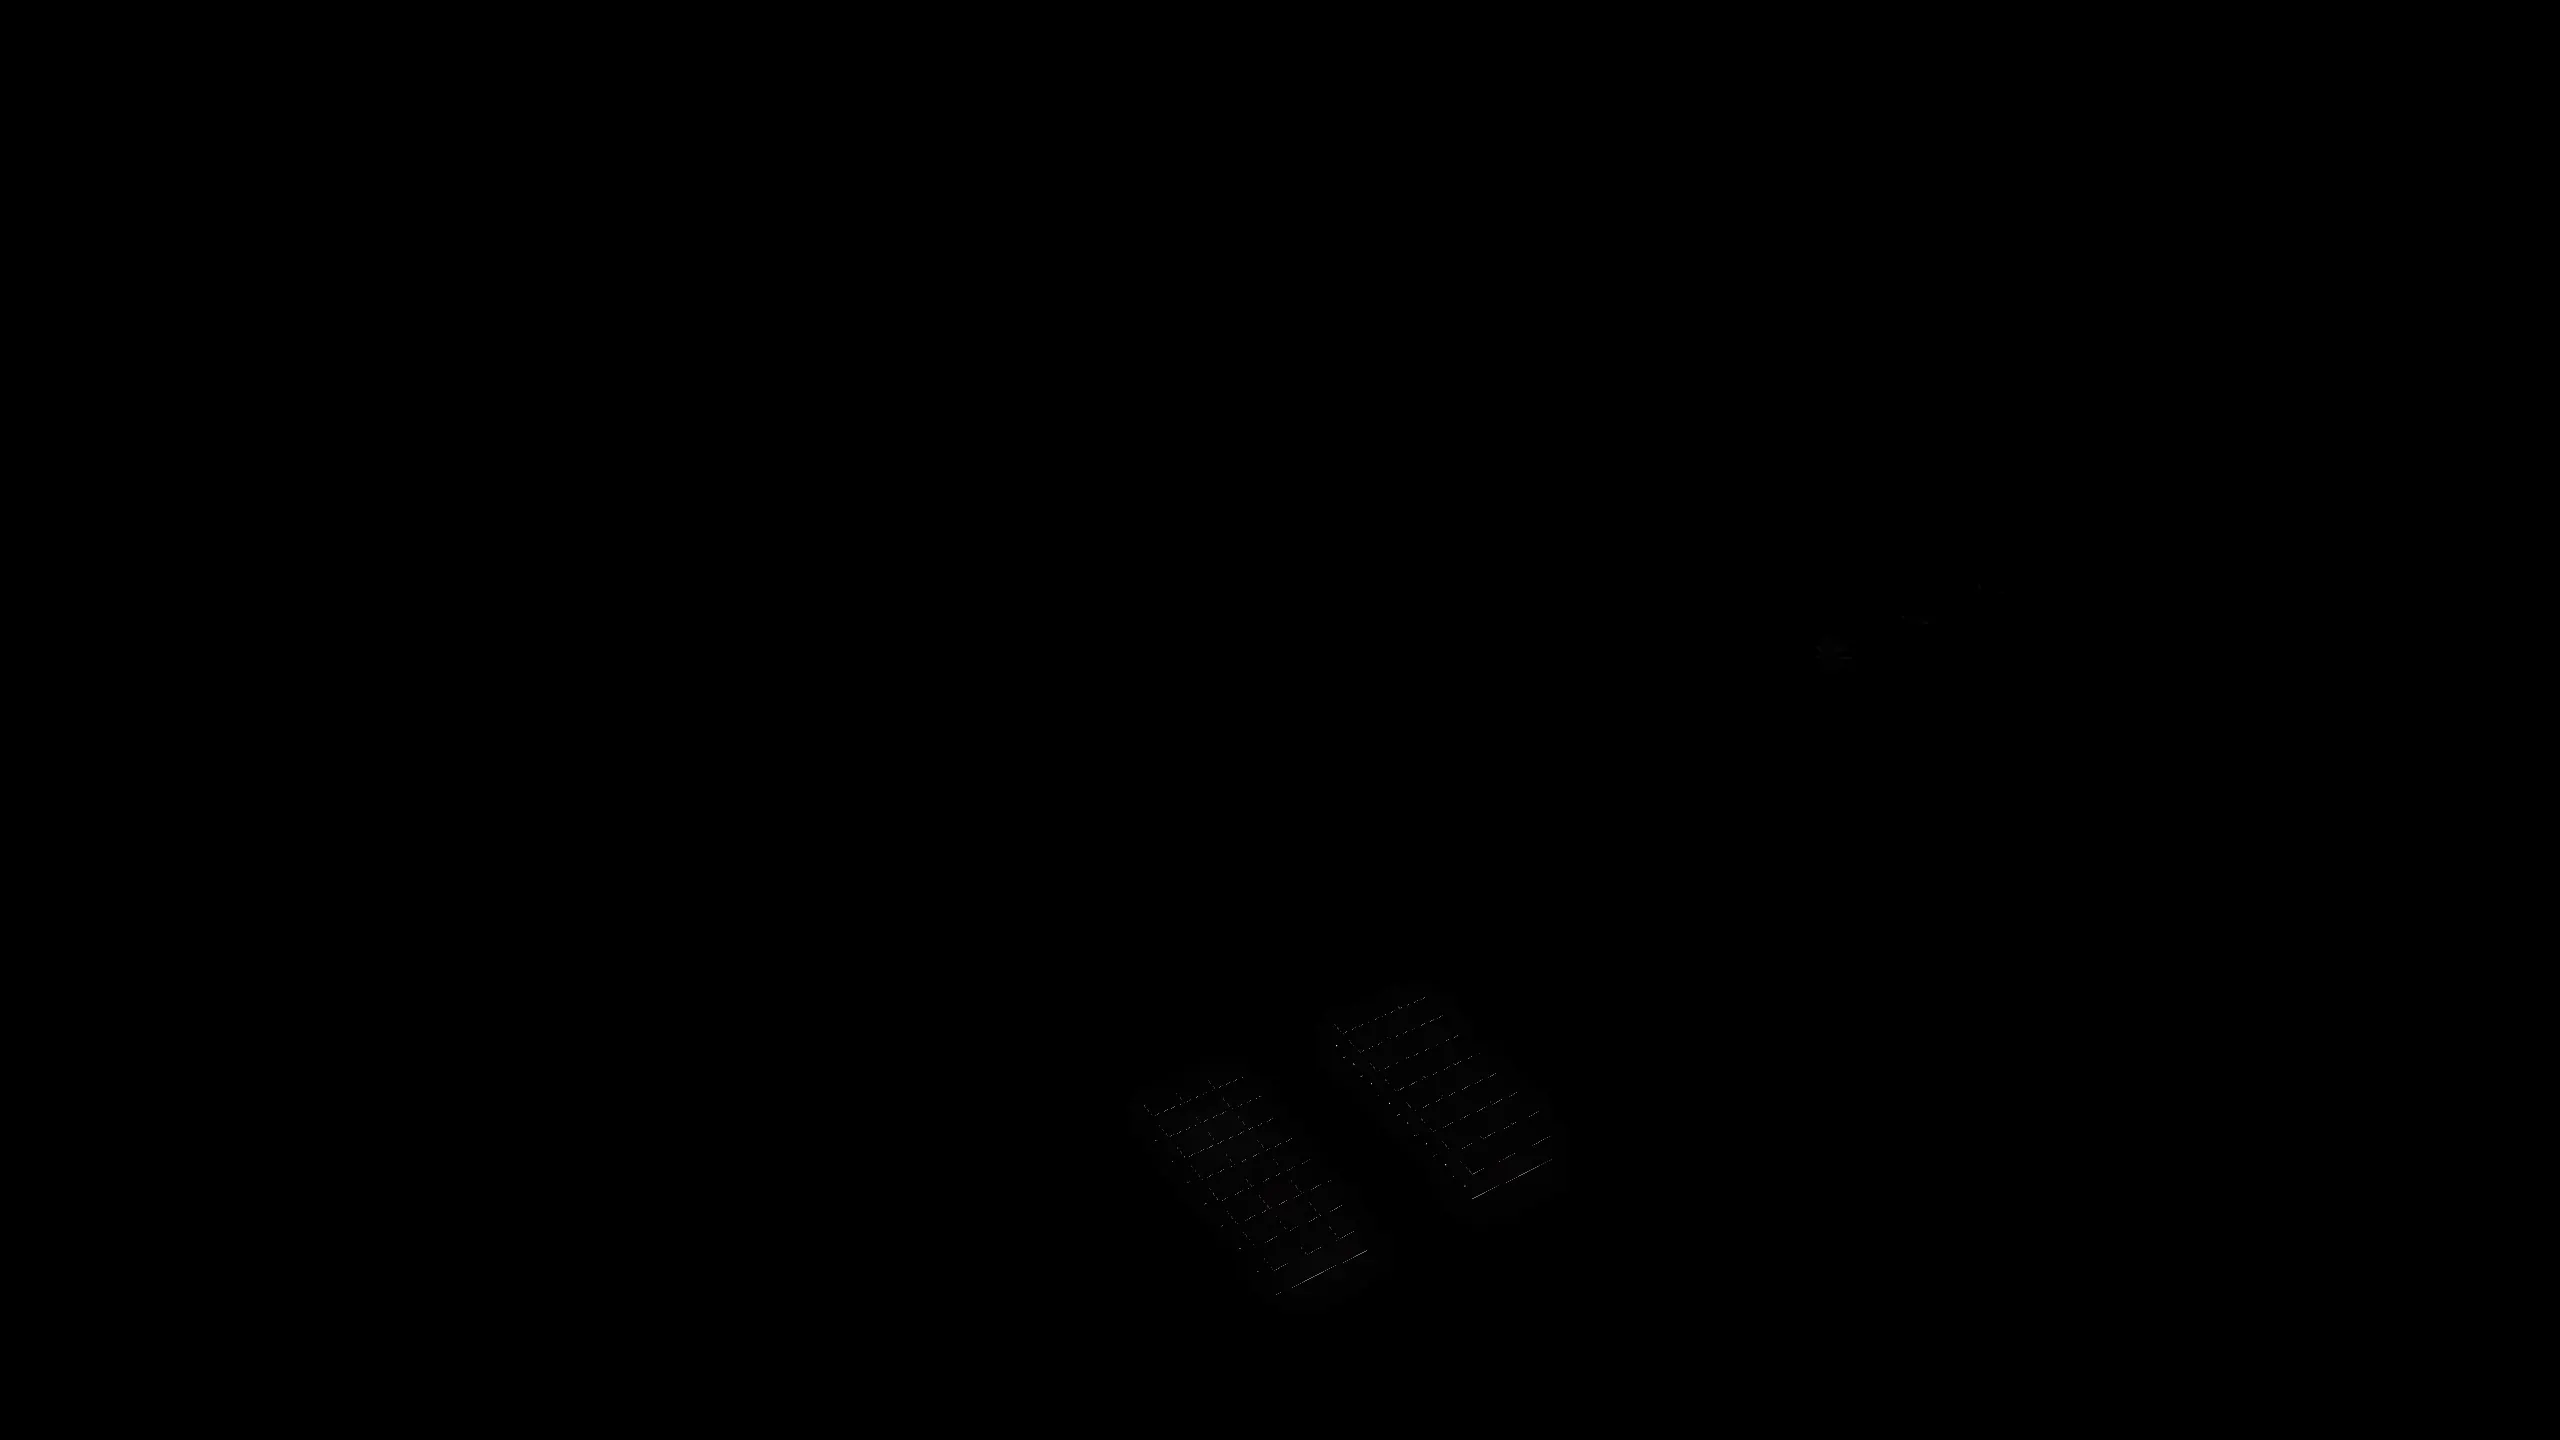
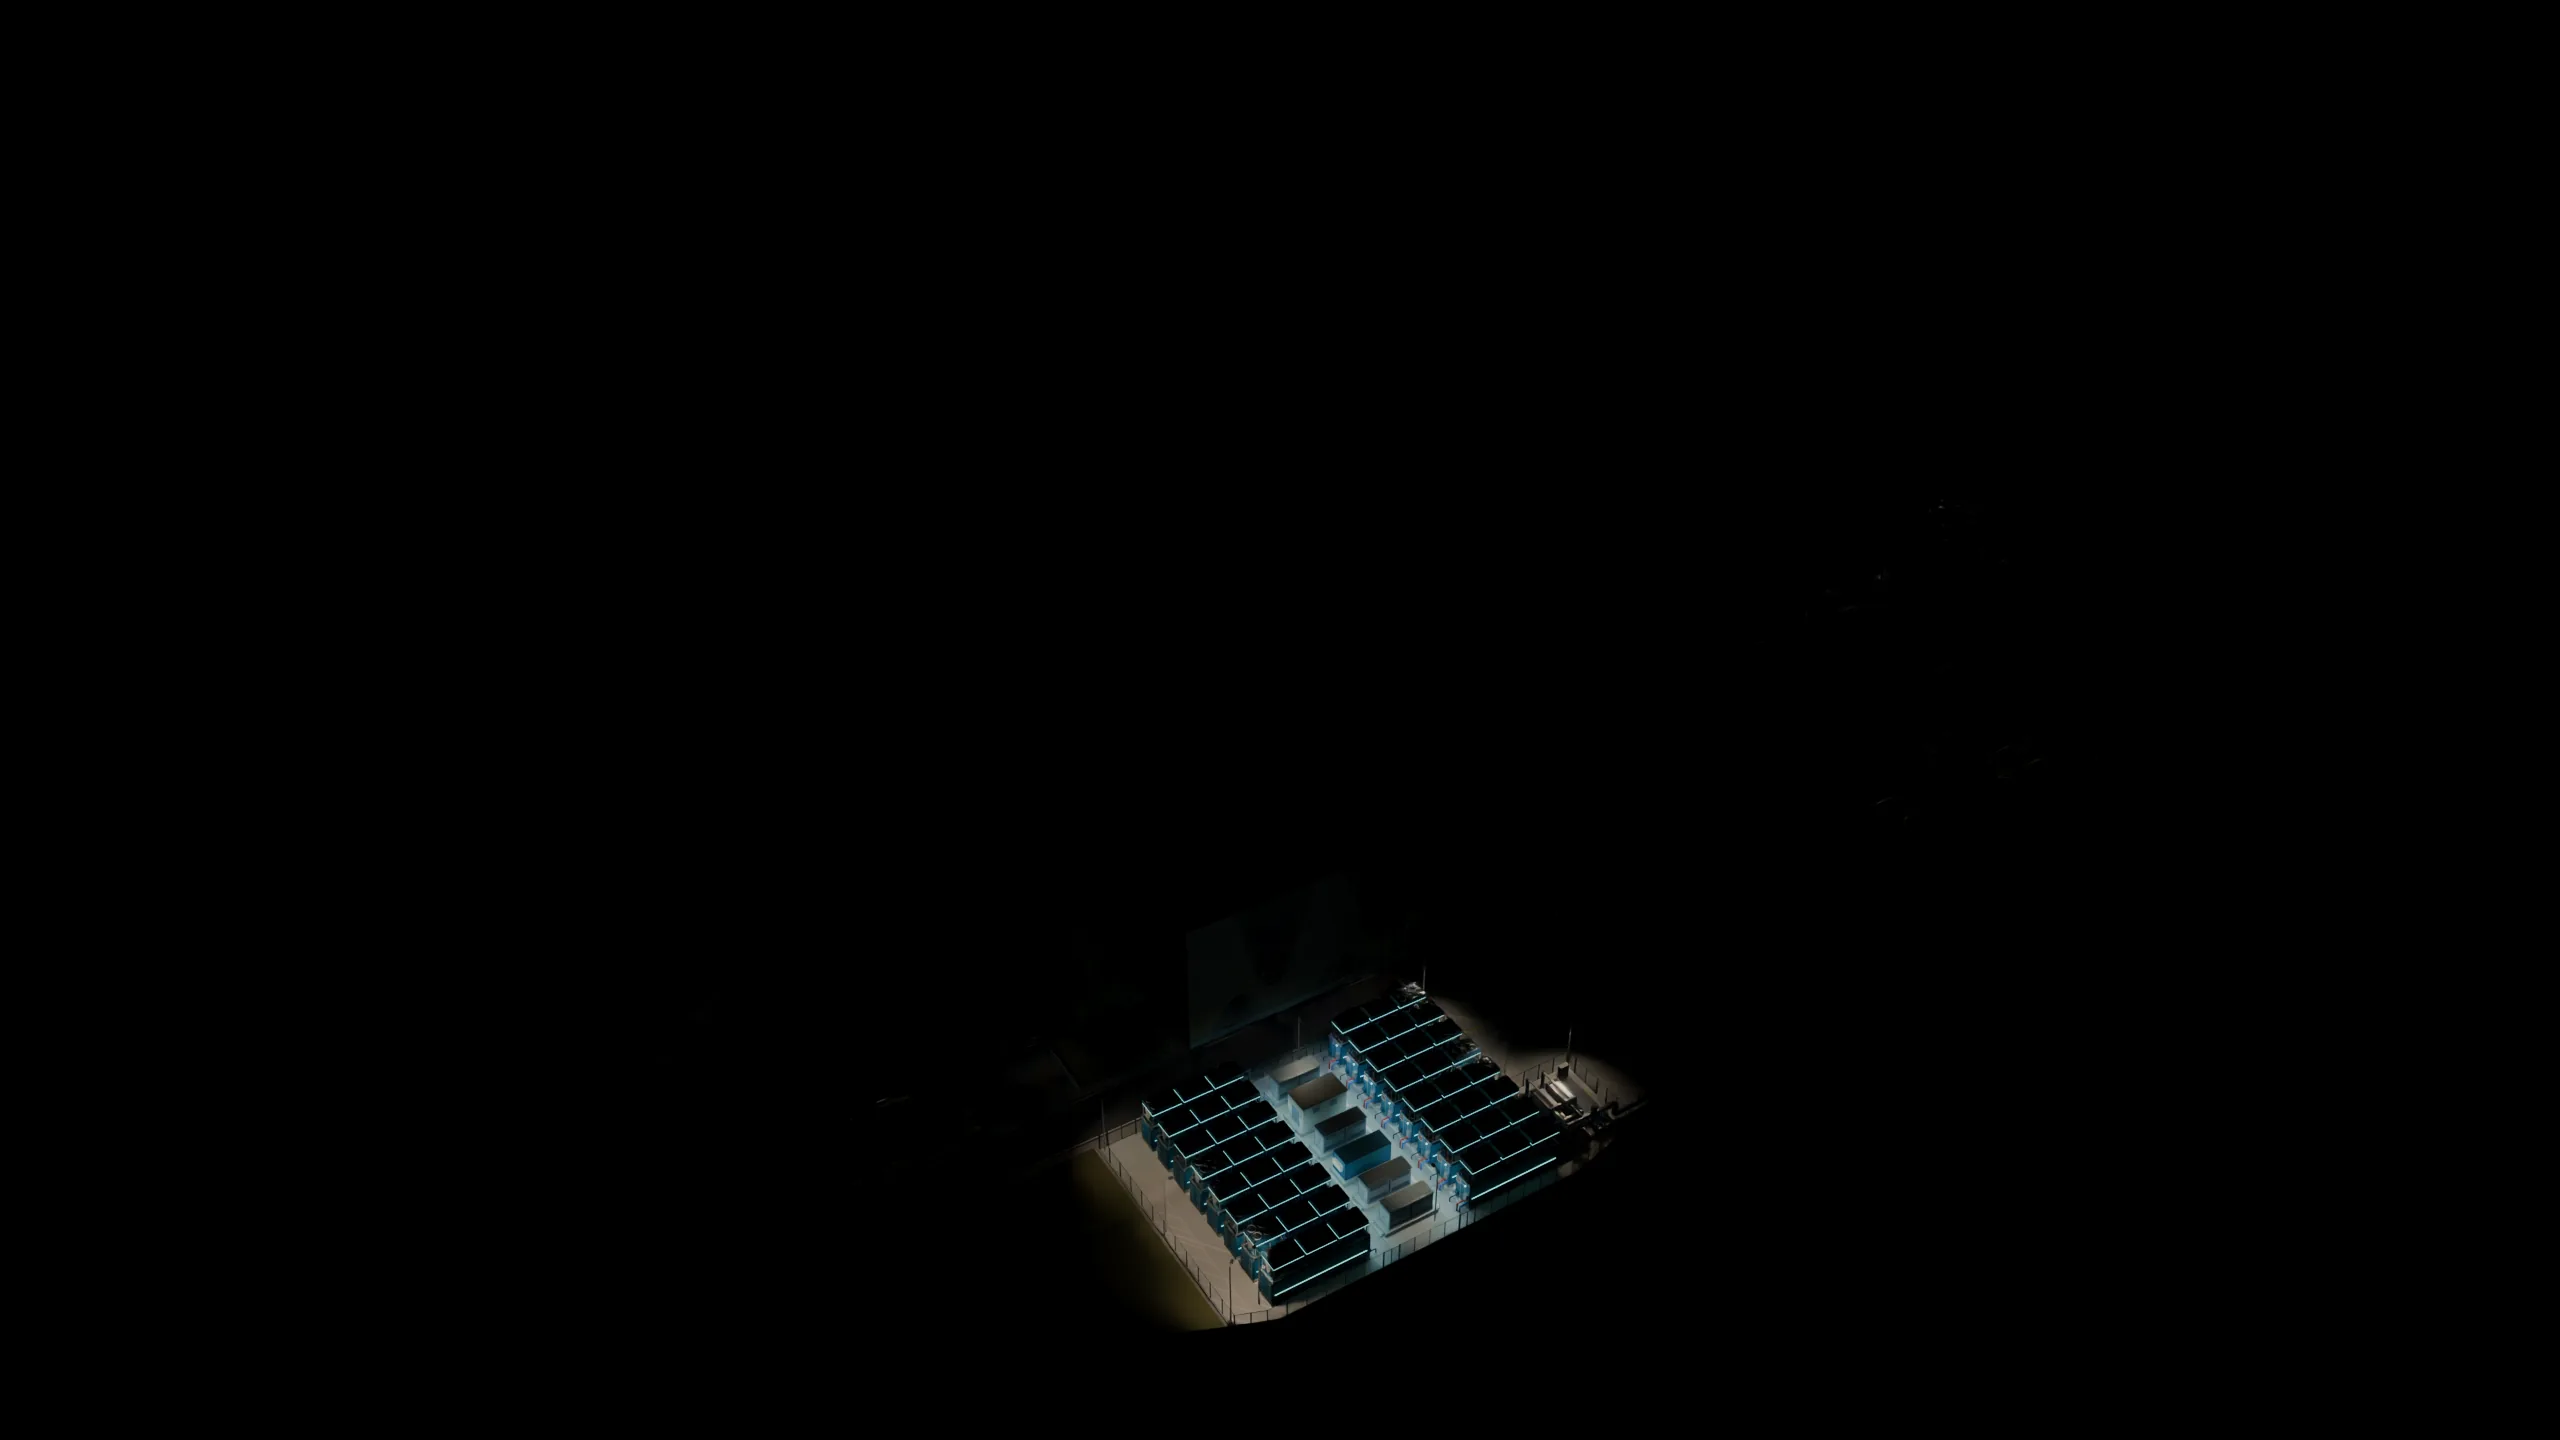
Atlas: the dispatch page's plates rendered from the Blender scene, its routes and labels projected through the same camera [skip netlify]
The interim plates give way to Cycles renders of the scene from the page's
own camera: day, dusk and night, each with the BLOX idle and two layers,
the BLOX running and the export running. The routes of the power are
projected and ray-cast through that camera, so the flow dims where the
plant hides it; the labels stand on what they name, and the crop keeps the
compound and the export's end in a shallow desk.

The route's ghost is back to the earlier client's. A label now gives way
to the clock, the day's total, the desk's button and the plate's edge, and
in a short window the plate leaves room for the controls' extra row, so
the desk's button stays clear on a phone on its side.

Changed region(s): [[0.4062, 0.6875, 0.6562, 0.9375]]

diff --git a/atlas/thn/dispatch.html b/atlas/thn/dispatch.html
@@ -338,7 +338,11 @@ header::after{content:"";position:absolute;left:0;right:0;bottom:-1px;height:2.5
   .days{flex:1 1 100%;order:-1}
   .days button{flex:1 1 0;min-width:0;text-align:center}
   .days button b,.days button span{overflow:hidden;text-overflow:ellipsis}
+  /* the days take a row of their own, 44 px more than WLD's controls: the plate gives it up, so in a short window
+     the sticky controls never cover its foot and the desk's button */
+  #plate{max-height:calc(100dvh - var(--hdr,60px) - 116px)}
 }
+@media (max-width:620px){ #plate{max-height:calc(100dvh - var(--hdr,60px) - 142px)} }
 @media (max-width:420px){ .days button span{display:none} .days button{padding:6px 4px} .days button b{font-size:11px} }
 
 /* the day in the read-out: what kind of day it was */
@@ -878,12 +882,14 @@ details.more[open] summary::before{transform:rotate(45deg)}
       t.el.style.left = x + 'px'; t.el.style.top = y + 'px';
       t.el.hidden = x < 20 || x > r.width - 20 || y < 20 || y > r.height;
     }
-    // on a small plate the labels meet: each gives way to those before it (the BLOX, then the way to the grid)
-    const kept = [];
+    // on a small plate the labels meet: each gives way to those before it (the BLOX, then the way to the grid), and
+    // to the clock, the day's total and the desk's button on the plate; one the plate's edge would cut goes too
+    const kept = ['clock', 'chip', 'dock-open', 'dock-min'].map((id) => $(id)).filter((el) => el && el.offsetParent && getComputedStyle(el).visibility !== 'hidden').map((el) => el.getBoundingClientRect()).filter((b) => b.width > 0);
     for (const t of tags){
       if (t.el.hidden) continue;
       const a = t.el.getBoundingClientRect();
-      if (kept.some((b) => a.left < b.right + 4 && a.right > b.left - 4 && a.top < b.bottom + 3 && a.bottom > b.top - 3)) t.el.hidden = true;
+      if (a.top < r.top + 2 || a.left < r.left + 2 || a.right > r.right - 2 || a.bottom > r.bottom - 2 ||
+          kept.some((b) => a.left < b.right + 4 && a.right > b.left - 4 && a.top < b.bottom + 3 && a.bottom > b.top - 3)) t.el.hidden = true;
       else kept.push(a);
     }
     if (R.grid) paint(0);                                     // resizing the canvas cleared it
@@ -948,7 +954,7 @@ details.more[open] summary::before{transform:rotate(45deg)}
   let R = {};
 
   // lv is 0 to 1: how much of the 28 MW takes this route, eased as the half hours change. Behind a building the
-  // flow shows as a ghost, stronger than WLD's: most of the way to the grid lies behind the reception hall here
+  // flow shows as a ghost, as WLD's: in the Cycles plates the export runs in view from the pens to the fence
   function drawRoute(rt, lv, spr, dt){
     if (lv < 0.01) return;
     const frac = lv, spacing = 130 - 86*frac, speed = 80 + 230*frac;
@@ -959,7 +965,7 @@ details.more[open] summary::before{transform:rotate(45deg)}
         const at = s - k*spacing*0.09; if (at < 0) continue;
         const pt = rt.p[Math.min(rt.p.length - 1, Math.floor(at/rt.step))];
         const edge = Math.min(1, s/50, (rt.len - s)/50);
-        fx.globalAlpha = Math.max(0, edge)*(pt[2] ? 0.3 : 1)*[1, 0.5, 0.3, 0.15][k]*(0.55 + 0.45*frac);
+        fx.globalAlpha = Math.max(0, edge)*(pt[2] ? 0.14 : 1)*[1, 0.5, 0.3, 0.15][k]*(0.55 + 0.45*frac);
         const z = size*[1, 0.8, 0.65, 0.5][k];
         fx.drawImage(spr, pt[0]*q - z/2, box.oy*dpr + pt[1]*q - z/2, z, z);
       }
